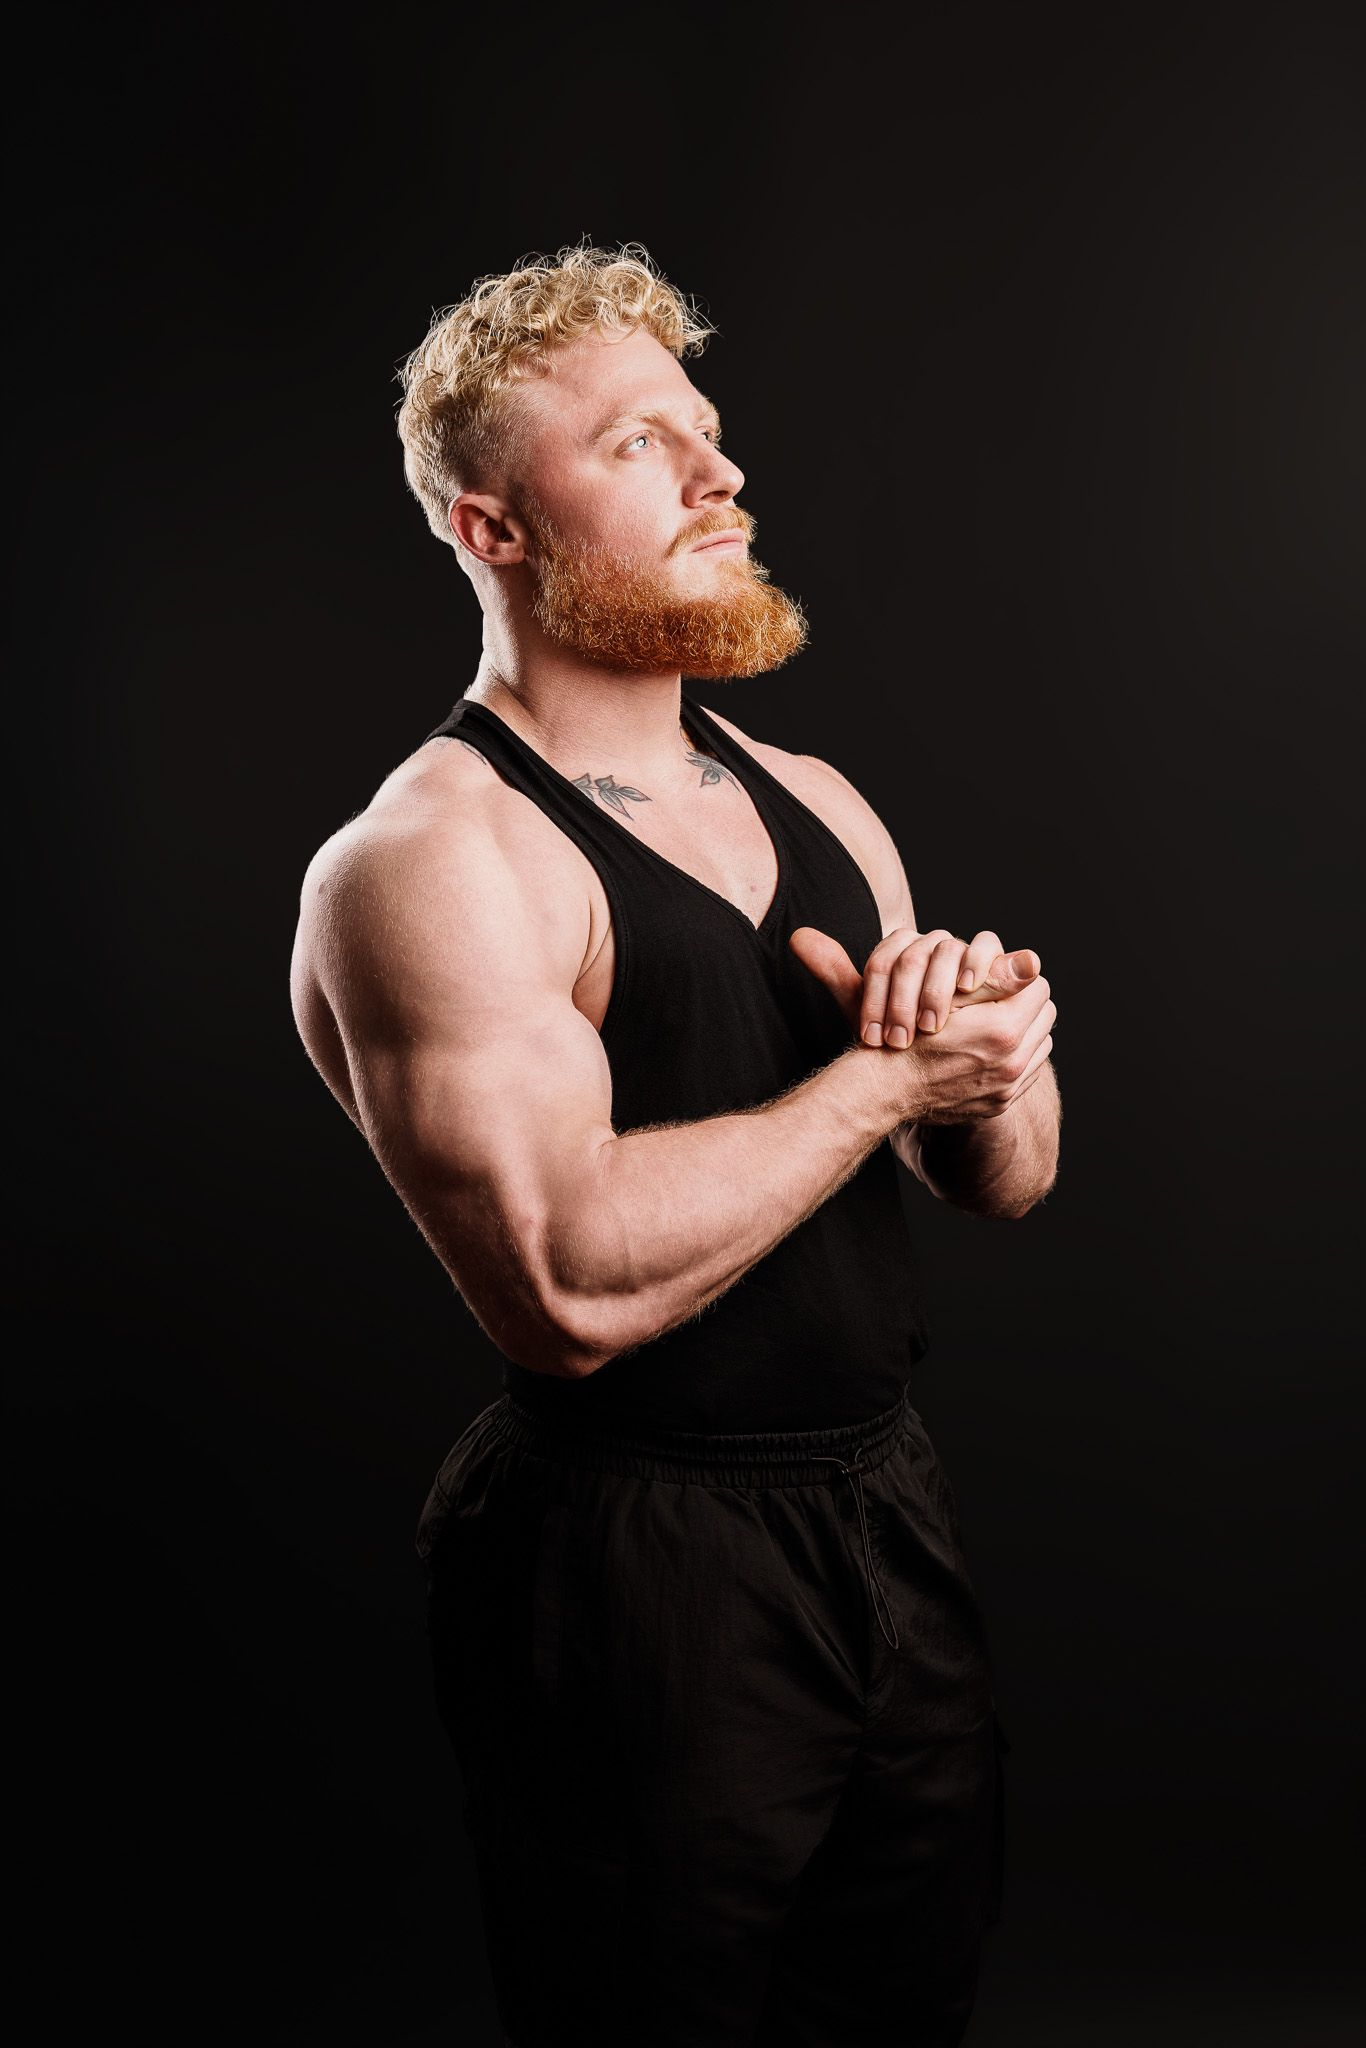
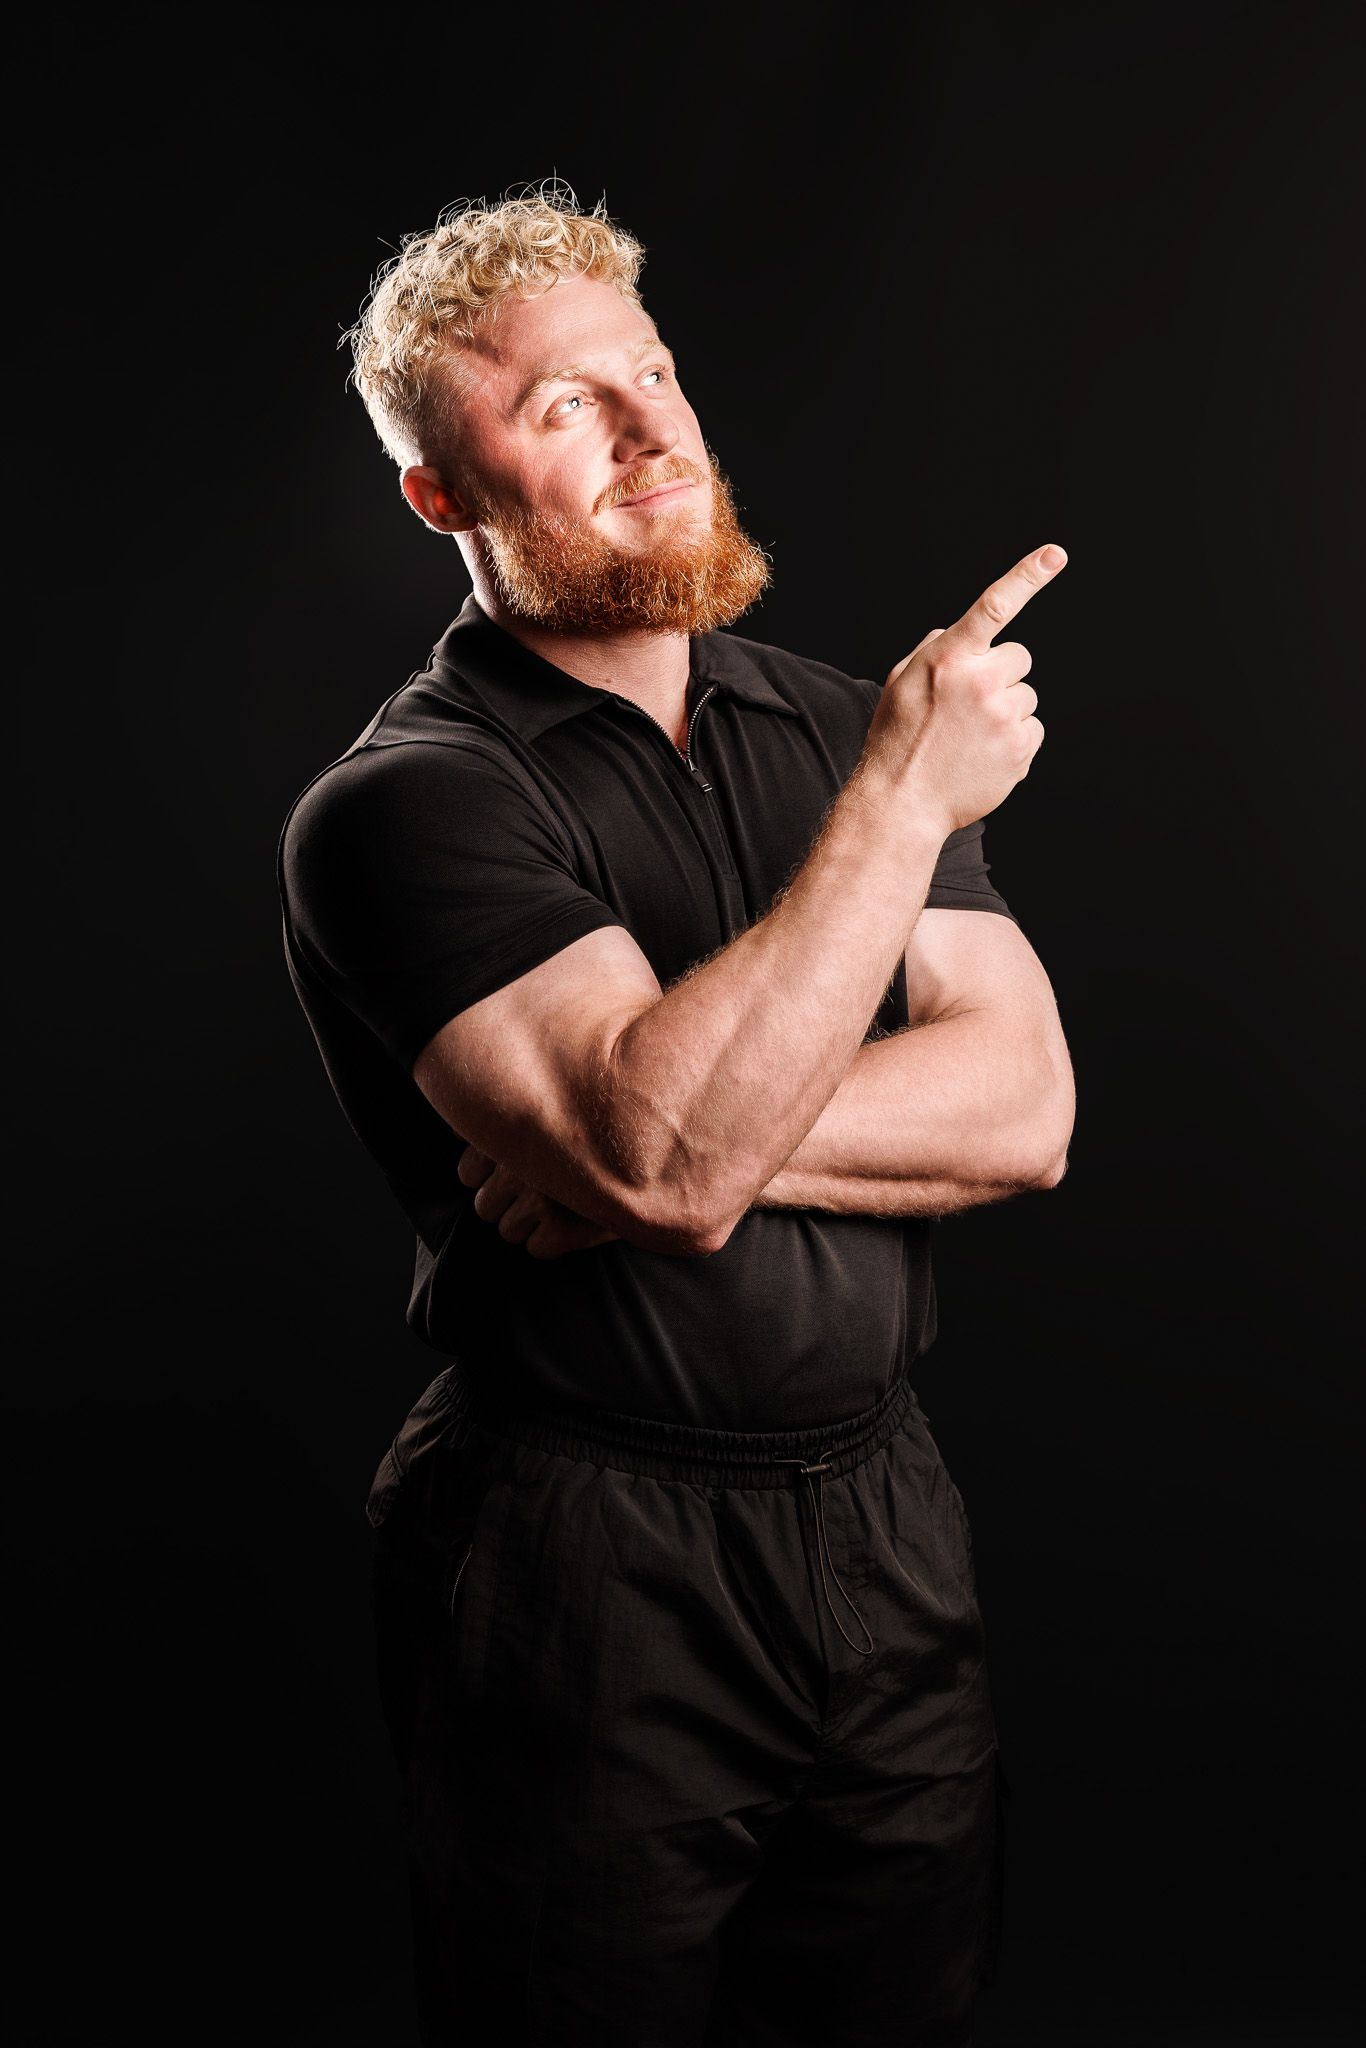
Use pointing coach photo for application cue

diff --git a/public/index.html b/public/index.html
@@ -865,9 +865,9 @@ body {
 }
 .contact-submit-cue {
   grid-column: 2;
-  justify-self: end;
-  width: clamp(170px, 18vw, 260px);
-  margin: -20px 44px -42px 0;
+  justify-self: center;
+  width: clamp(220px, 22vw, 320px);
+  margin: -126px 120px -82px 0;
   pointer-events: none;
 }
 .contact-submit-cue img {
@@ -1065,7 +1065,7 @@ body {
     grid-column: 1;
     justify-self: center;
     width: min(230px, 68vw);
-    margin: -12px auto -28px;
+    margin: -64px auto -36px;
   }
   .section { padding: 72px 20px; }
   .transform-content { padding: 40px 24px; }
@@ -1081,6 +1081,11 @@ body {
 @media (max-width: 600px) {
   .nav { padding: 0 20px; }
   .transform-steps { gap: 32px; }
+  .contact-submit-cue {
+    justify-self: start;
+    width: min(205px, 60vw);
+    margin: -56px 0 -30px 28px;
+  }
   .transformations-slider { width: calc(100% + 32px); margin: 0 -16px 40px; }
   .transformation-card { width: 280px; }
   .footer-inner { flex-direction: column; text-align: center; }
